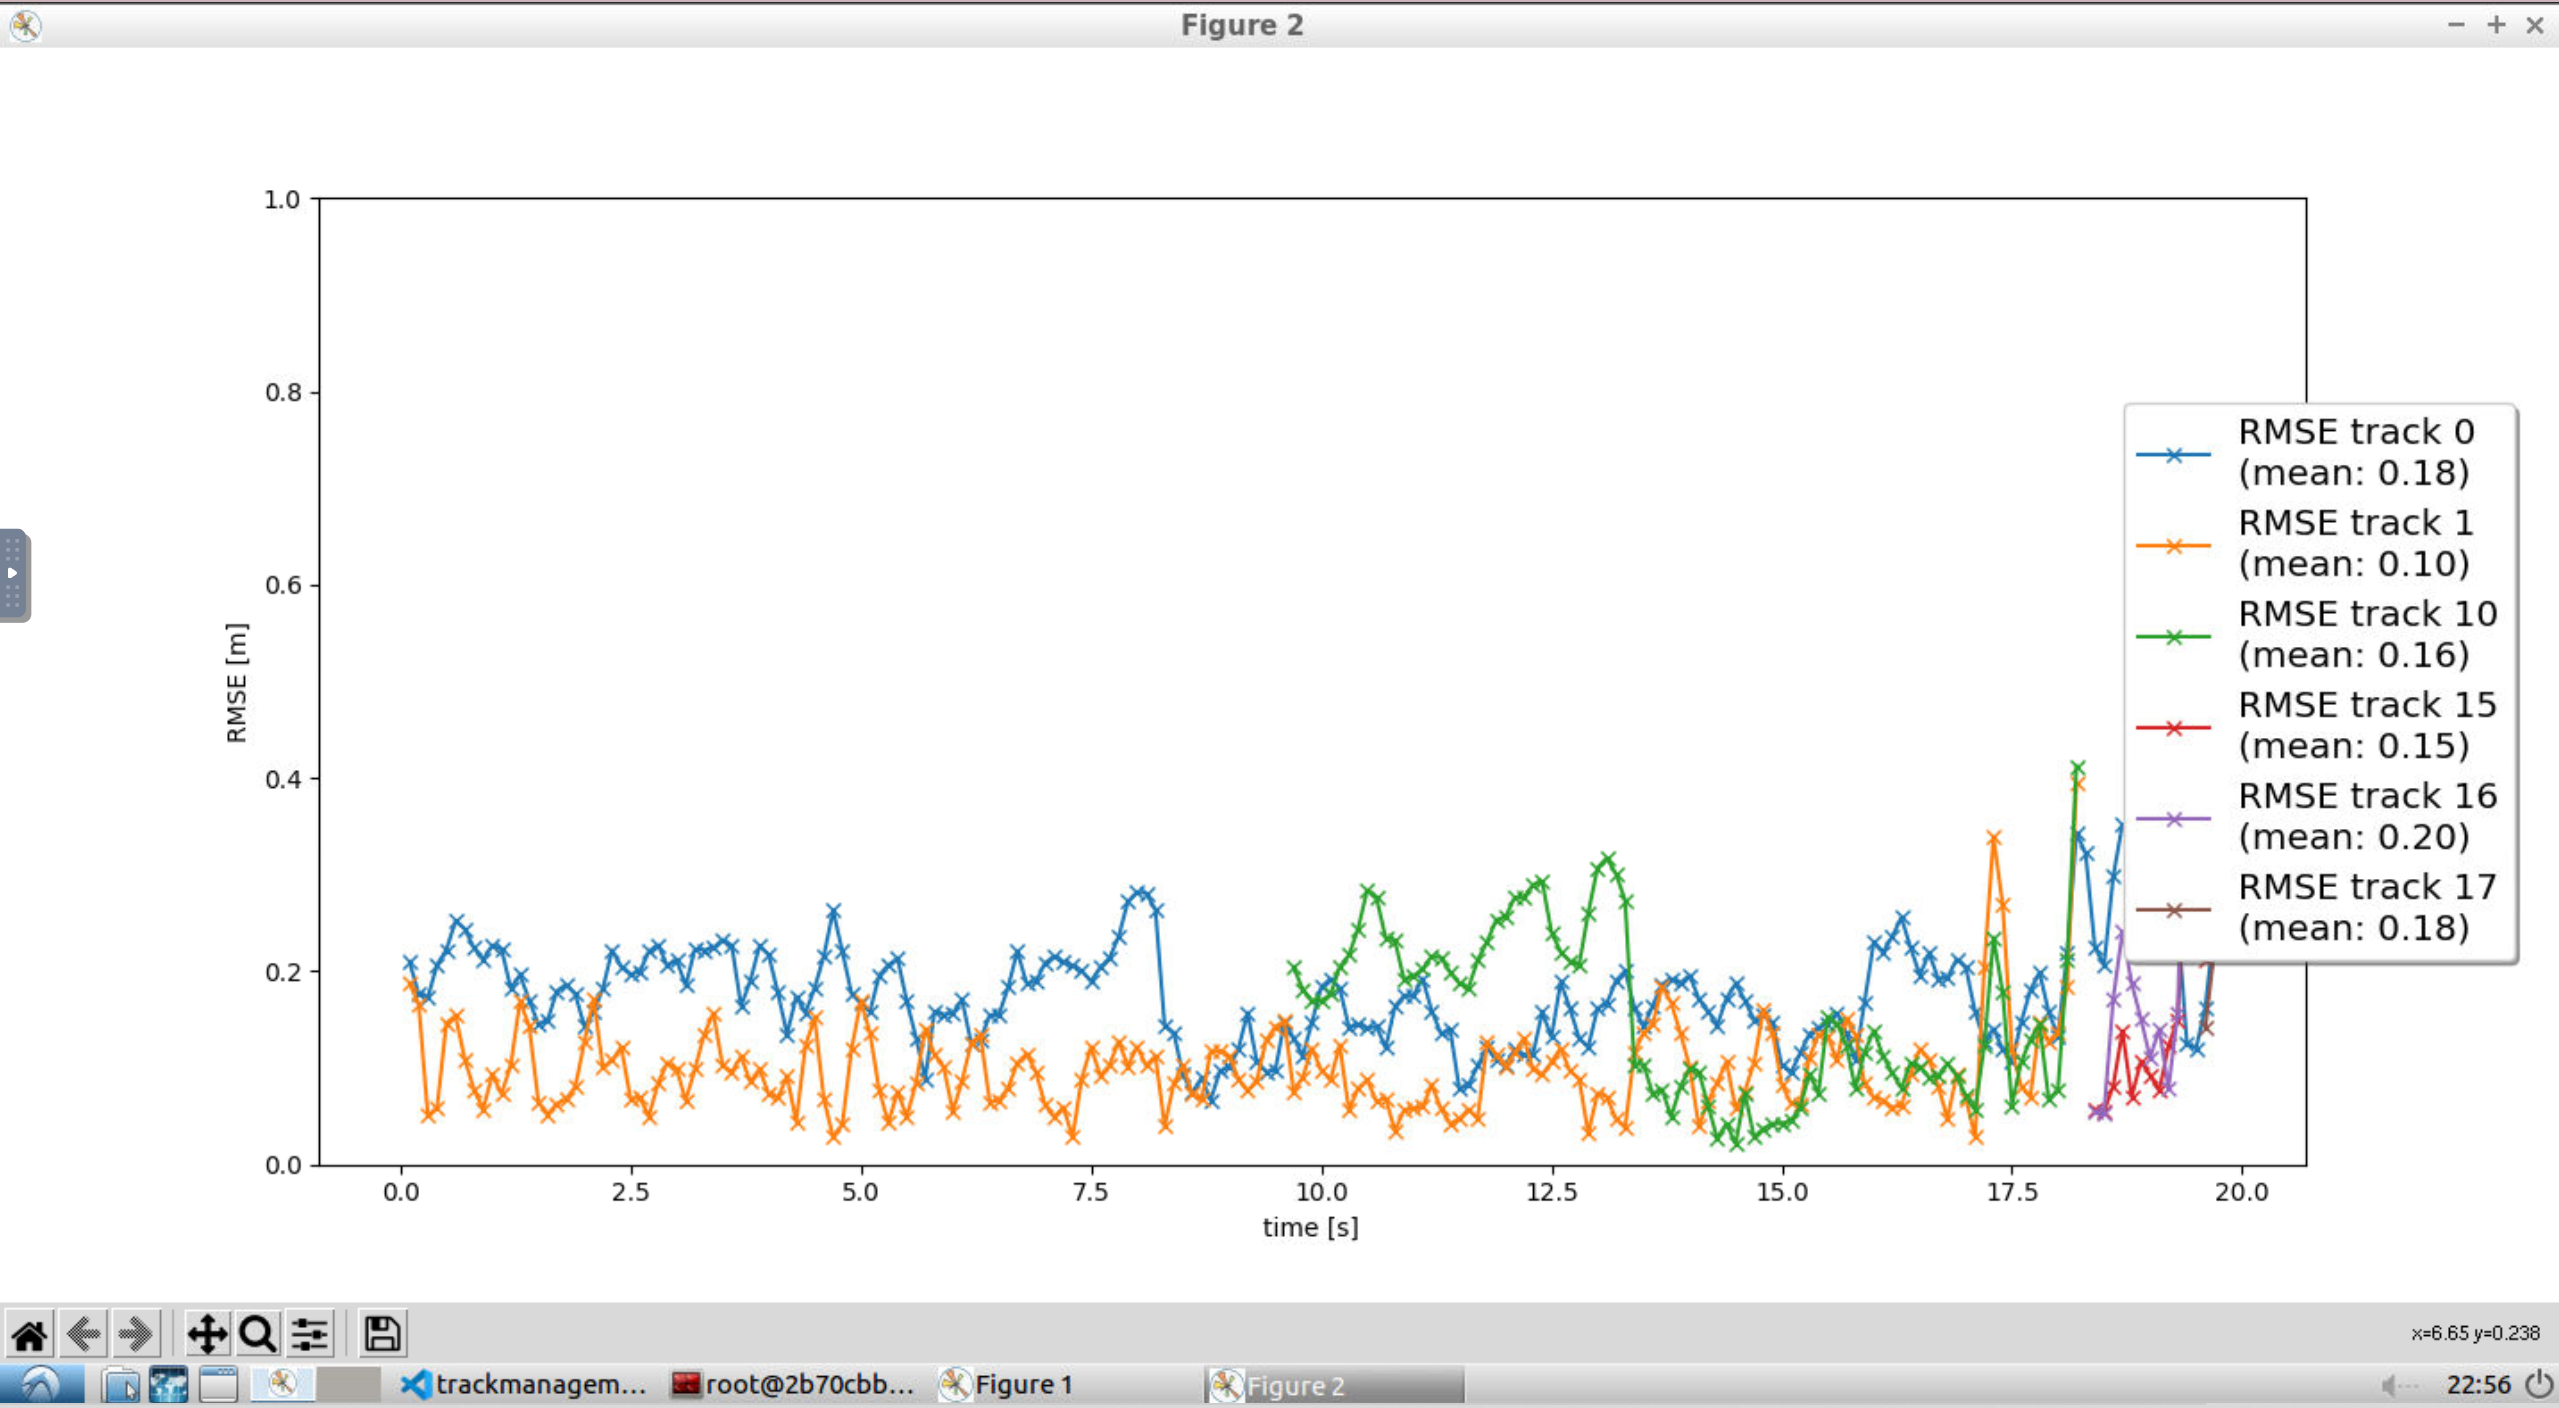
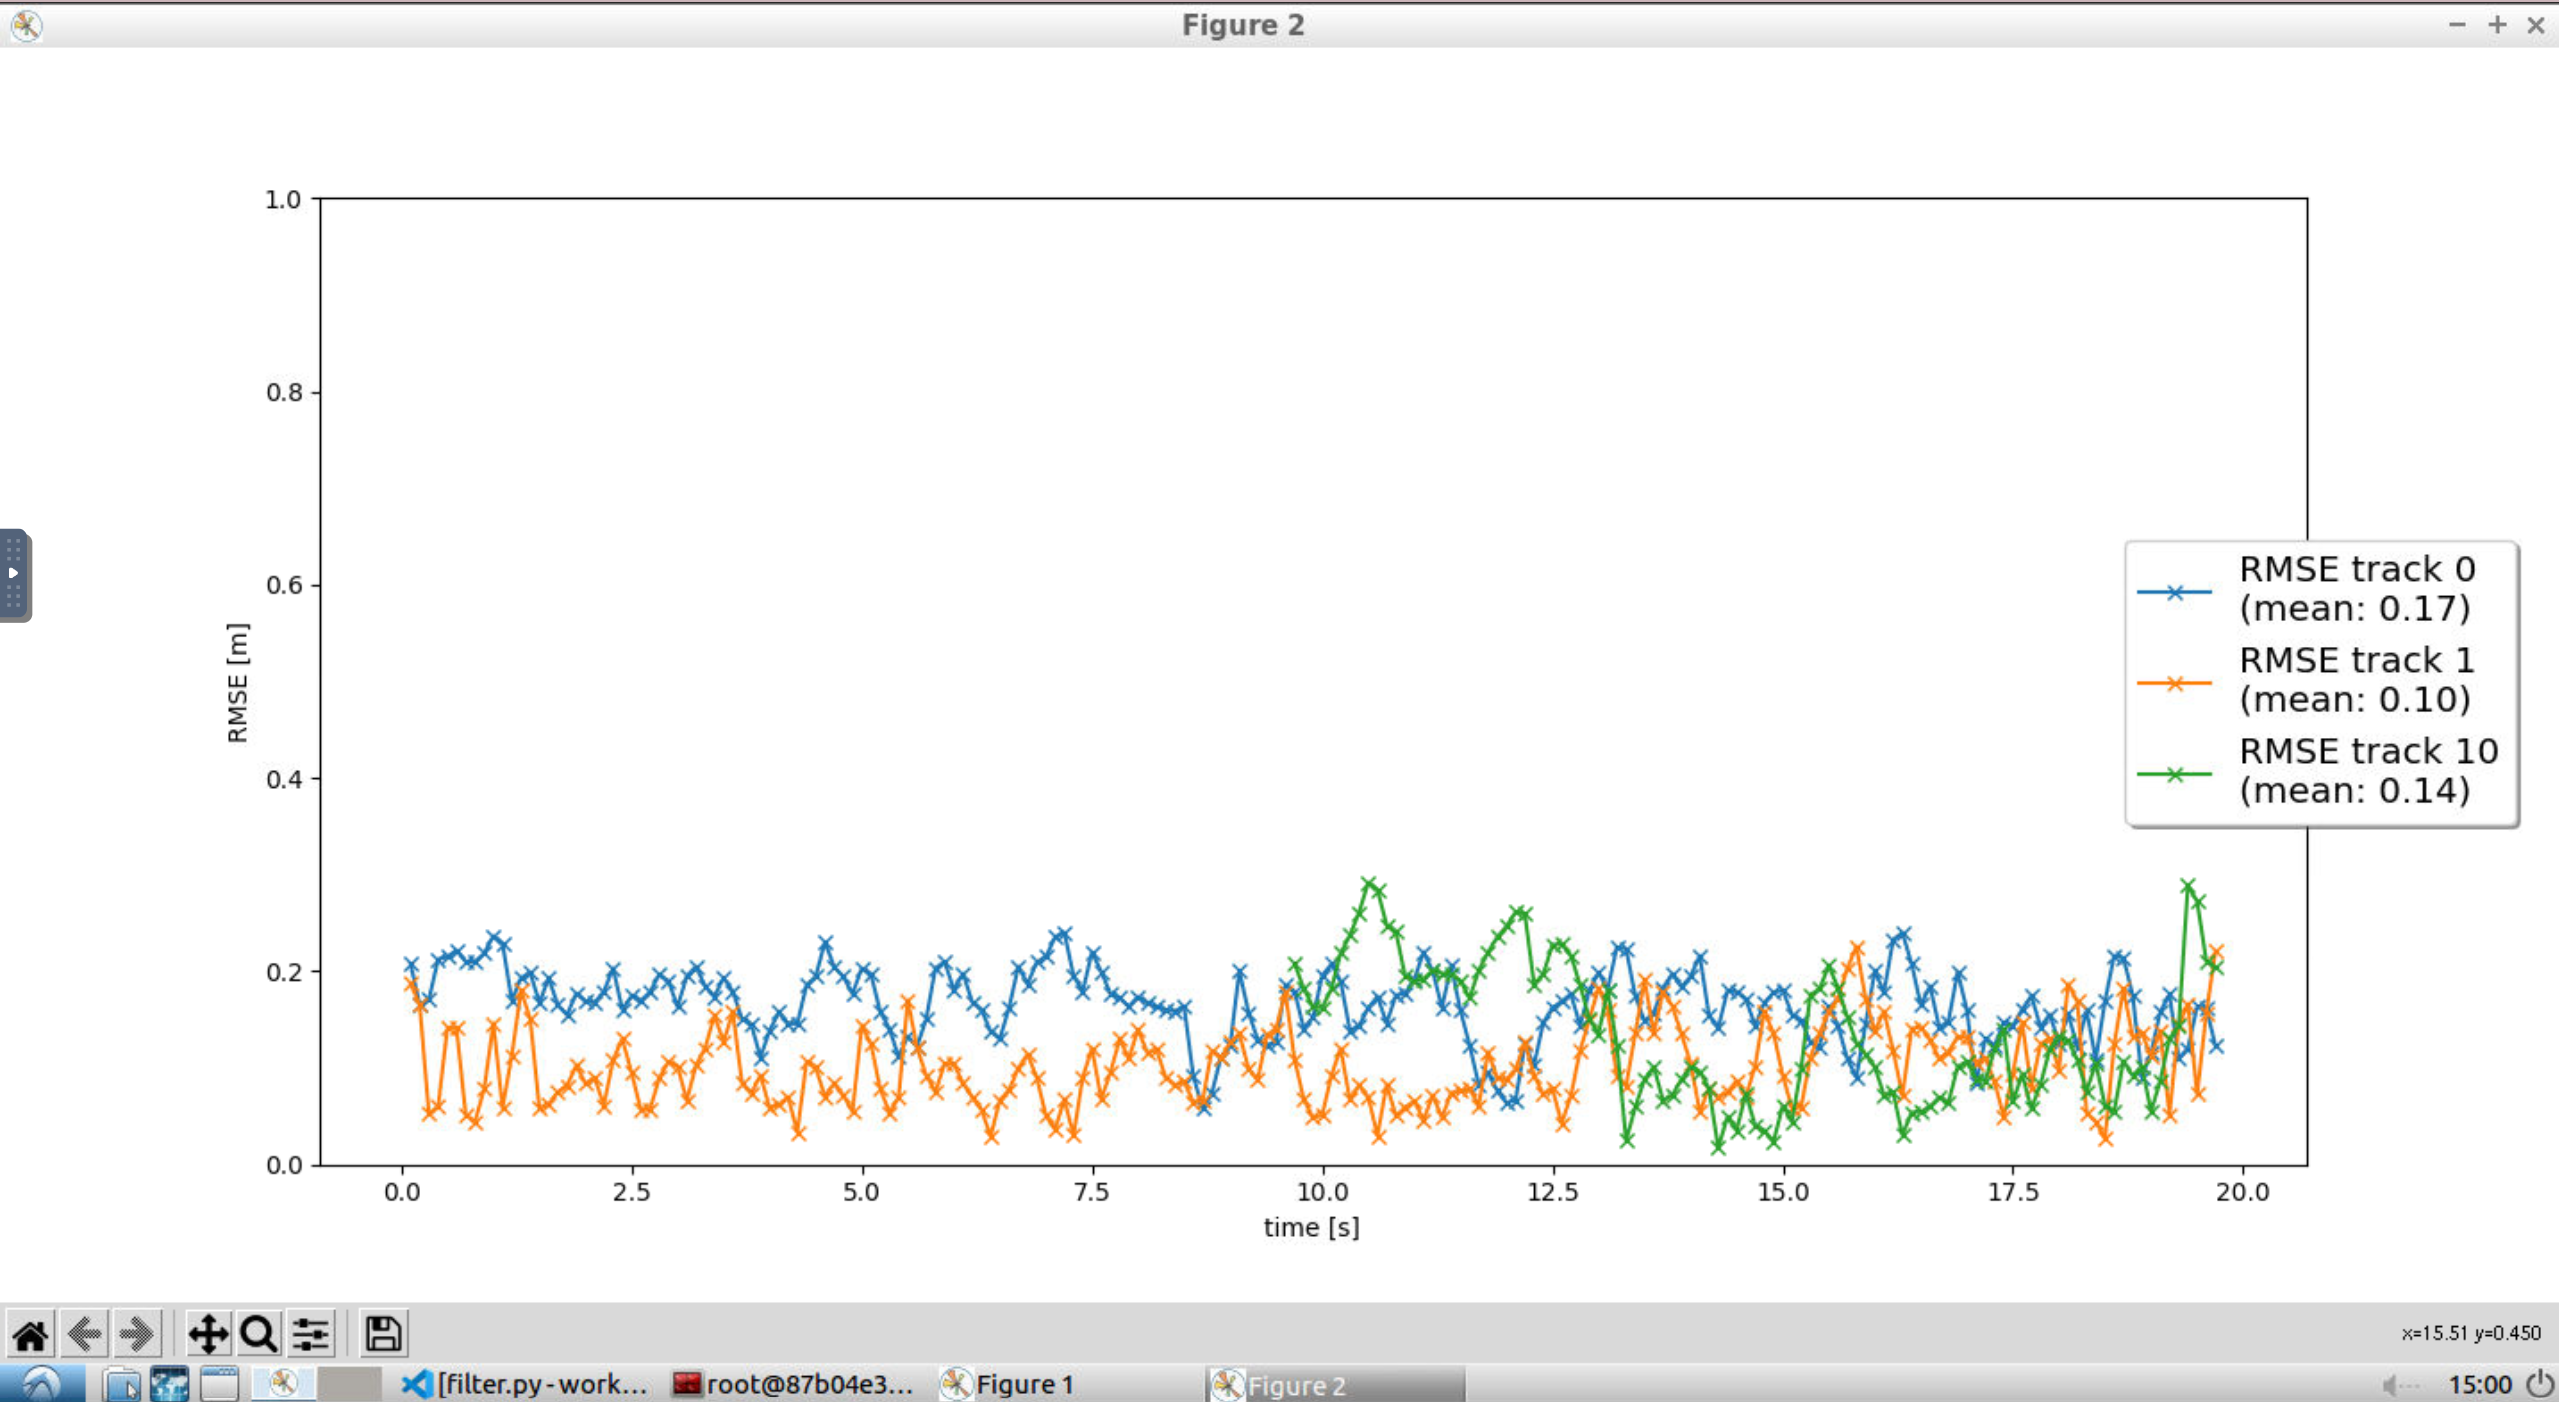
I added RMSE plots and fixed q matrix
I added RMSE plots and fixed q matrix

diff --git a/workspace/student/filter.py b/workspace/student/filter.py
@@ -61,10 +61,10 @@ class Filter:
         return np.matrix([
             [q3,0,0,q2,0,0],
             [0,q3,0,0,q2,0],
-            [0,0,0, 0,0,0],
+            [0,0,q3, 0,0,q2],
             [q2,0,0,q1,0,0],
             [0,q2,0,0,q1,0],
-            [0,0,0,0,0,0]
+            [0,0,q2,0,0,q1]
         ])
         
         ############
